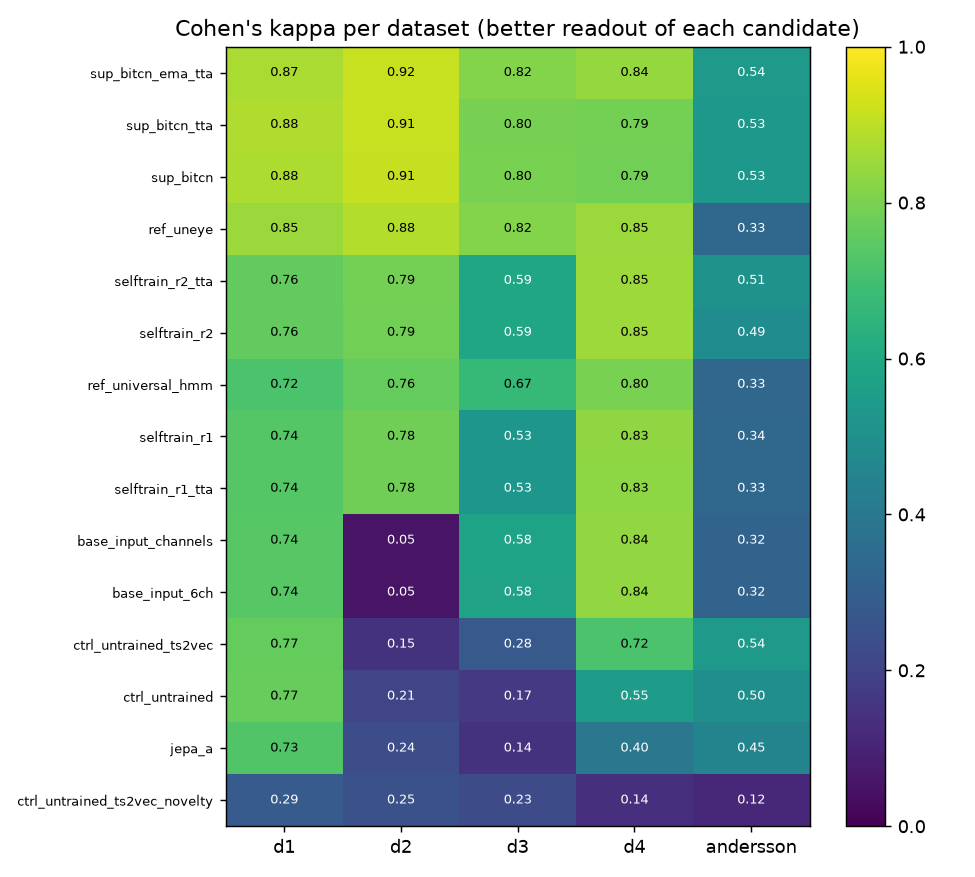
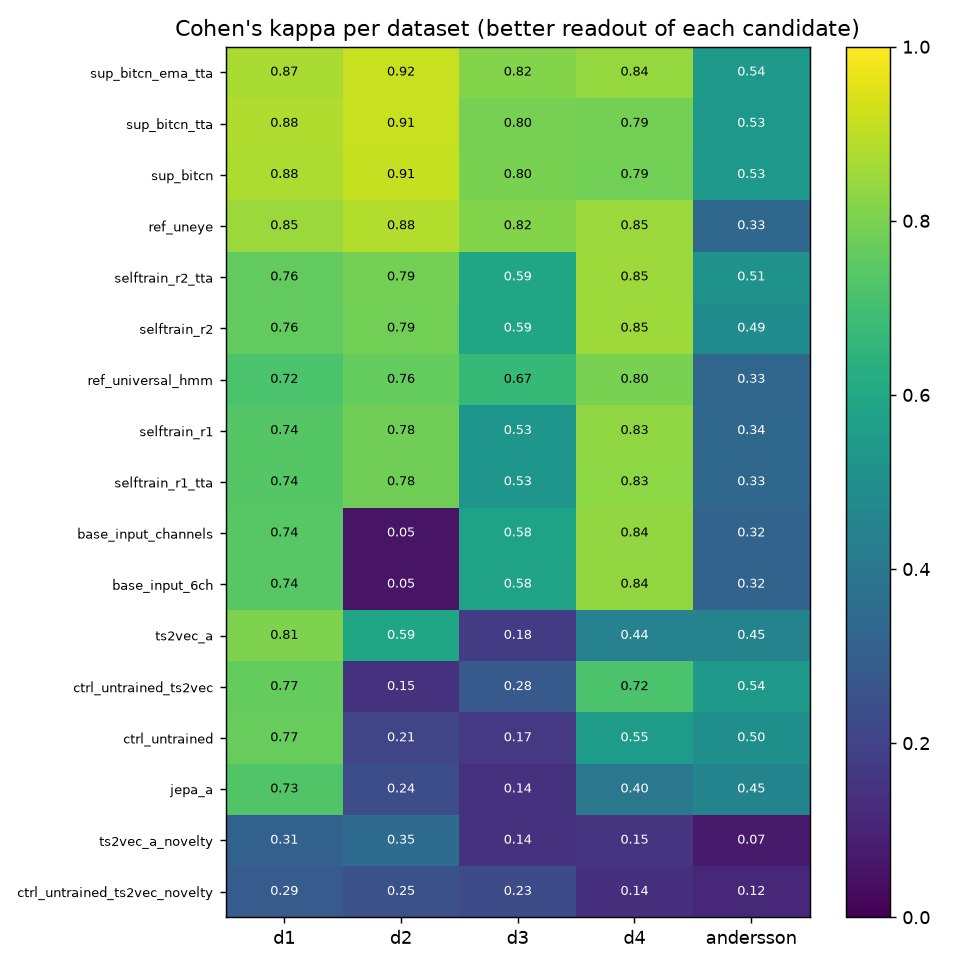
Overnight comparison: ts2vec_a (done)

diff --git a/docs/OVERNIGHT_REPORT.md b/docs/OVERNIGHT_REPORT.md
@@ -1,13 +1,13 @@
 # Overnight comparison of candidate architectures and training heuristics
 
-Generated 2026-10-09 23:18 by `foundation/night_report.py` from `foundation/runs/night/*.json` (MacBook Air M1, one GPU job at a time). The numbers are those of the files; nothing is typed by hand in the tables.
+Generated 2026-10-09 23:32 by `foundation/night_report.py` from `foundation/runs/night/*.json` (MacBook Air M1, one GPU job at a time). The numbers are those of the files; nothing is typed by hand in the tables.
 
 ## Summary
 
 - Best mean event F1 over the 5 benchmarks: **sup_bitcn_ema_tta** (0.88 F1, 0.80 kappa, readout: threshold); best mean kappa: **sup_bitcn_ema_tta** (0.88 / 0.80, readout: threshold).
 - Reference U'n'Eye (supervised): 0.85 F1 / 0.75 kappa on the same subsets (Andersson with its general weights is 0.55 / 0.33; with its own weights 0.89 / 0.81). The label-free universal HMM: 0.88 / 0.66.
 - Control: the random-initialised transformer encoder gives 0.48 / 0.44 (hmm): a trained encoder only counts if it beats this.
-- Steps of the night finished: 6; failed or timed out: 0.
+- Steps of the night finished: 7; failed or timed out: 0.
 
 ## Protocol (the same for every row)
 
@@ -55,7 +55,9 @@ Already tried before tonight (not repeated):
 | `ctrl_untrained_ts2vec` | control | labels of the other 4 datasets (linear probe only); the enco | **0.62 / 0.49** | hmm | 0.62 / 0.49 | 0.31 / 0.39 | 0.79 / 0.77 | 0.57 / 0.15 | 0.41 / 0.28 | 0.59 / 0.72 | 0.74 / 0.54 | 0.7 |
 | `ctrl_untrained` | control | labels of the other 4 datasets (linear probe only); the enco | **0.48 / 0.44** | hmm | 0.48 / 0.44 | 0.29 / 0.42 | 0.79 / 0.77 | 0.44 / 0.21 | 0.19 / 0.17 | 0.37 / 0.55 | 0.61 / 0.50 | 1.7 |
 | `ctrl_untrained_ts2vec_novelty` | control | none (the encoder saw no label; no probe either) | **0.15 / 0.20** | hmm | 0.15 / 0.20 | n/a | 0.16 / 0.29 | 0.17 / 0.25 | 0.17 / 0.23 | 0.10 / 0.14 | 0.15 / 0.12 | 1.4 |
+| `ts2vec_a` | self-supervised | labels of the other 4 datasets (linear probe only); the enco | **0.61 / 0.49** | hmm | 0.61 / 0.49 | 0.38 / 0.47 | 0.85 / 0.81 | 0.62 / 0.59 | 0.44 / 0.18 | 0.44 / 0.44 | 0.72 / 0.45 | 11.7 |
 | `jepa_a` | self-supervised | labels of the other 4 datasets (linear probe only); the enco | **0.61 / 0.39** | hmm | 0.61 / 0.39 | 0.42 / 0.49 | 0.76 / 0.73 | 0.57 / 0.24 | 0.46 / 0.14 | 0.53 / 0.40 | 0.76 / 0.45 | 1.1 |
+| `ts2vec_a_novelty` | self-supervised | none (the encoder saw no label; no probe either) | **0.33 / 0.20** | hmm | 0.33 / 0.20 | n/a | 0.34 / 0.31 | 0.45 / 0.35 | 0.29 / 0.14 | 0.20 / 0.15 | 0.38 / 0.07 | 12.4 |
 | `selftrain_r1_tta` | label-free student | none for training | **0.83 / 0.64** | threshold | 0.66 / 0.63 | 0.83 / 0.64 | 0.89 / 0.74 | 0.90 / 0.78 | 0.78 / 0.53 | 0.92 / 0.83 | 0.68 / 0.33 | 4.6 |
 | `selftrain_r1` | label-free student | none for training (labeled train splits only select the chec | **0.80 / 0.64** | threshold | 0.68 / 0.64 | 0.80 / 0.64 | 0.89 / 0.74 | 0.90 / 0.78 | 0.77 / 0.53 | 0.92 / 0.83 | 0.54 / 0.34 | 4.6 |
 | `selftrain_r2_tta` | label-free student | none for training | **0.80 / 0.70** | threshold | 0.61 / 0.60 | 0.80 / 0.70 | 0.88 / 0.76 | 0.87 / 0.79 | 0.78 / 0.59 | 0.87 / 0.85 | 0.60 / 0.51 | 4.6 |
@@ -89,6 +91,7 @@ The headline column is the better mean event F1 of the two readouts (shown separ
 | base_input_6ch | done | 0.2 |
 | selftrain | done | 11.9 |
 | sup_bitcn | done | 11.0 |
+| ts2vec_a | done | 13.2 |
 
 ## Limits
 
